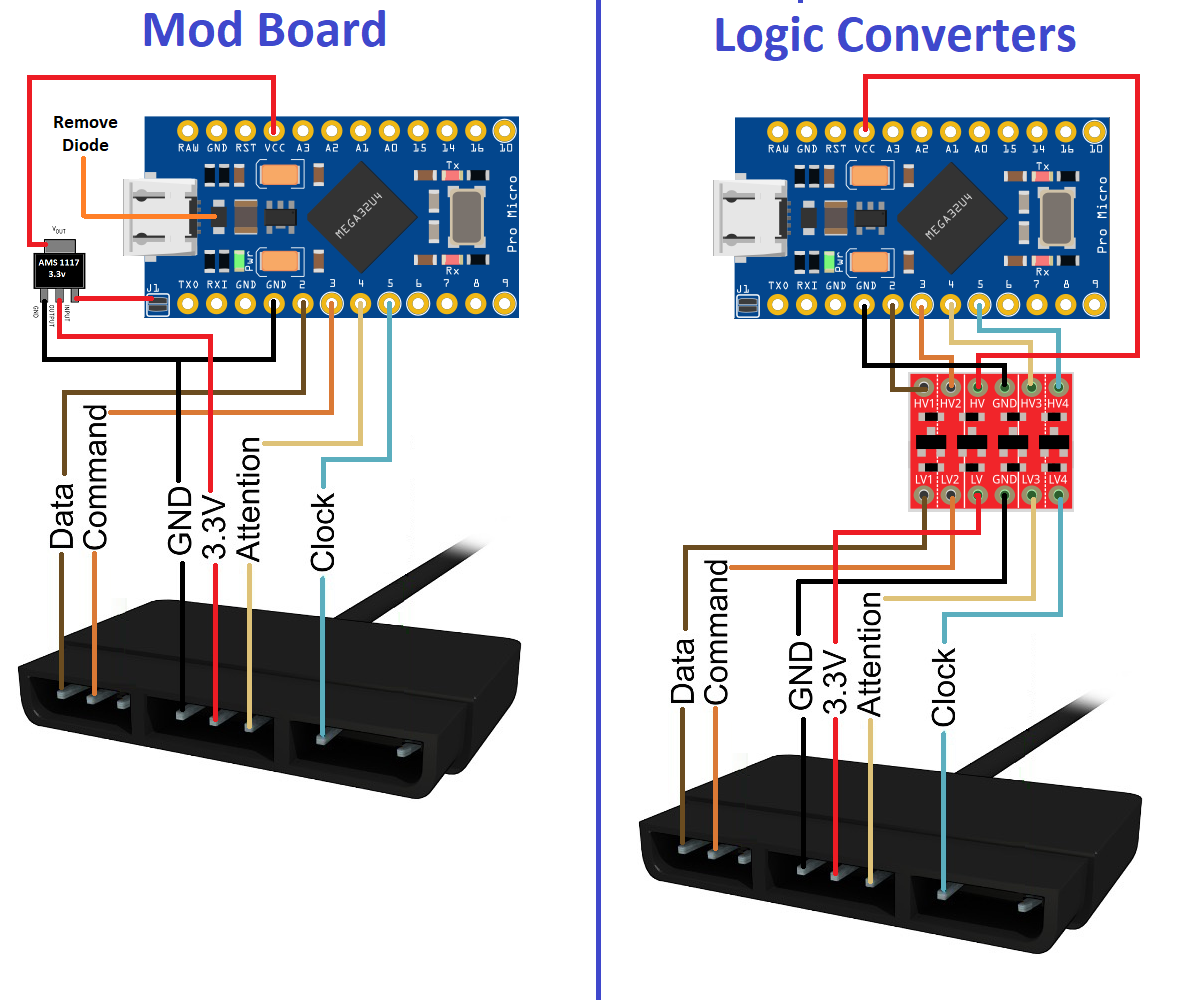
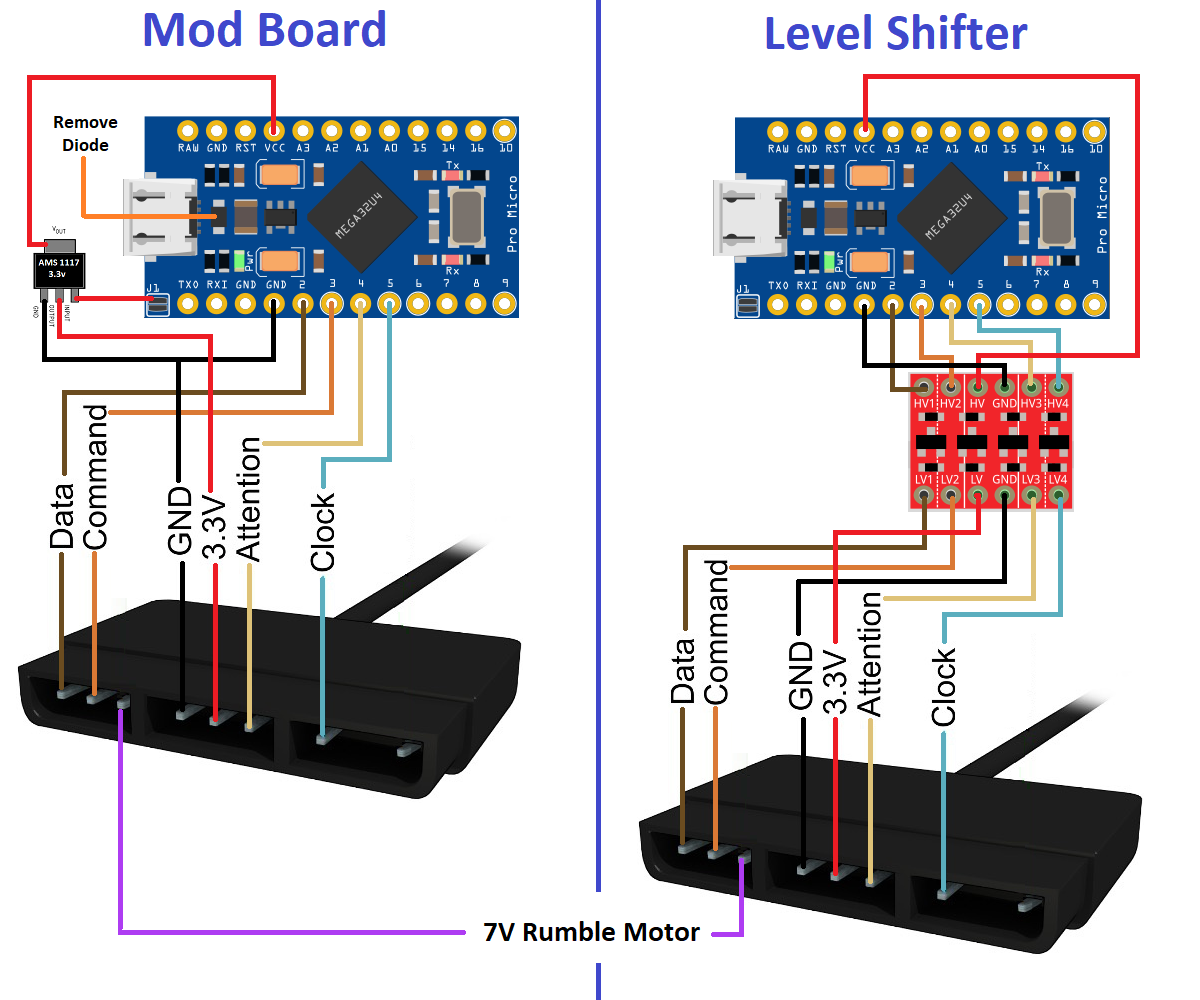
Change Diagram

diff --git a/Readme.md b/Readme.md
@@ -8,13 +8,15 @@ Features:
 Components:
 - Board ATMEGA32u4 at 5V/16MHz (Great 3.3v/16MHZ)
 - Micro USB to Xbox OG Controller Cable (Depending on the board)
-- Regulator 3.3V
-- Converter logic levels 5v/3.3v (Optional)
+- Regulator 3.3V (Optional)
+- Level Shofter 5v/3.3v (Optional)
 
 Notes:
 For its correct operation it is necessary that the signals between the board and the controller operate at 3.3v, which is the power supply voltage of the controller, for this the following can be done: (Diagram)
 - Remove the diode and add a 3.3v regulator (Based on ProMicro)
-- Add converter logic levels 5v/3.3v
+- Level Shifter 5v/3.3v
+
+This project is functional with the physical controls of psx/ps2, to combine it with the BlueRetro project it is necessary to modify unofficial functions in BlueRetro (Press Buttons and/or Vibration)
 
 ![alt text](Diagram.png?raw=true)
 
